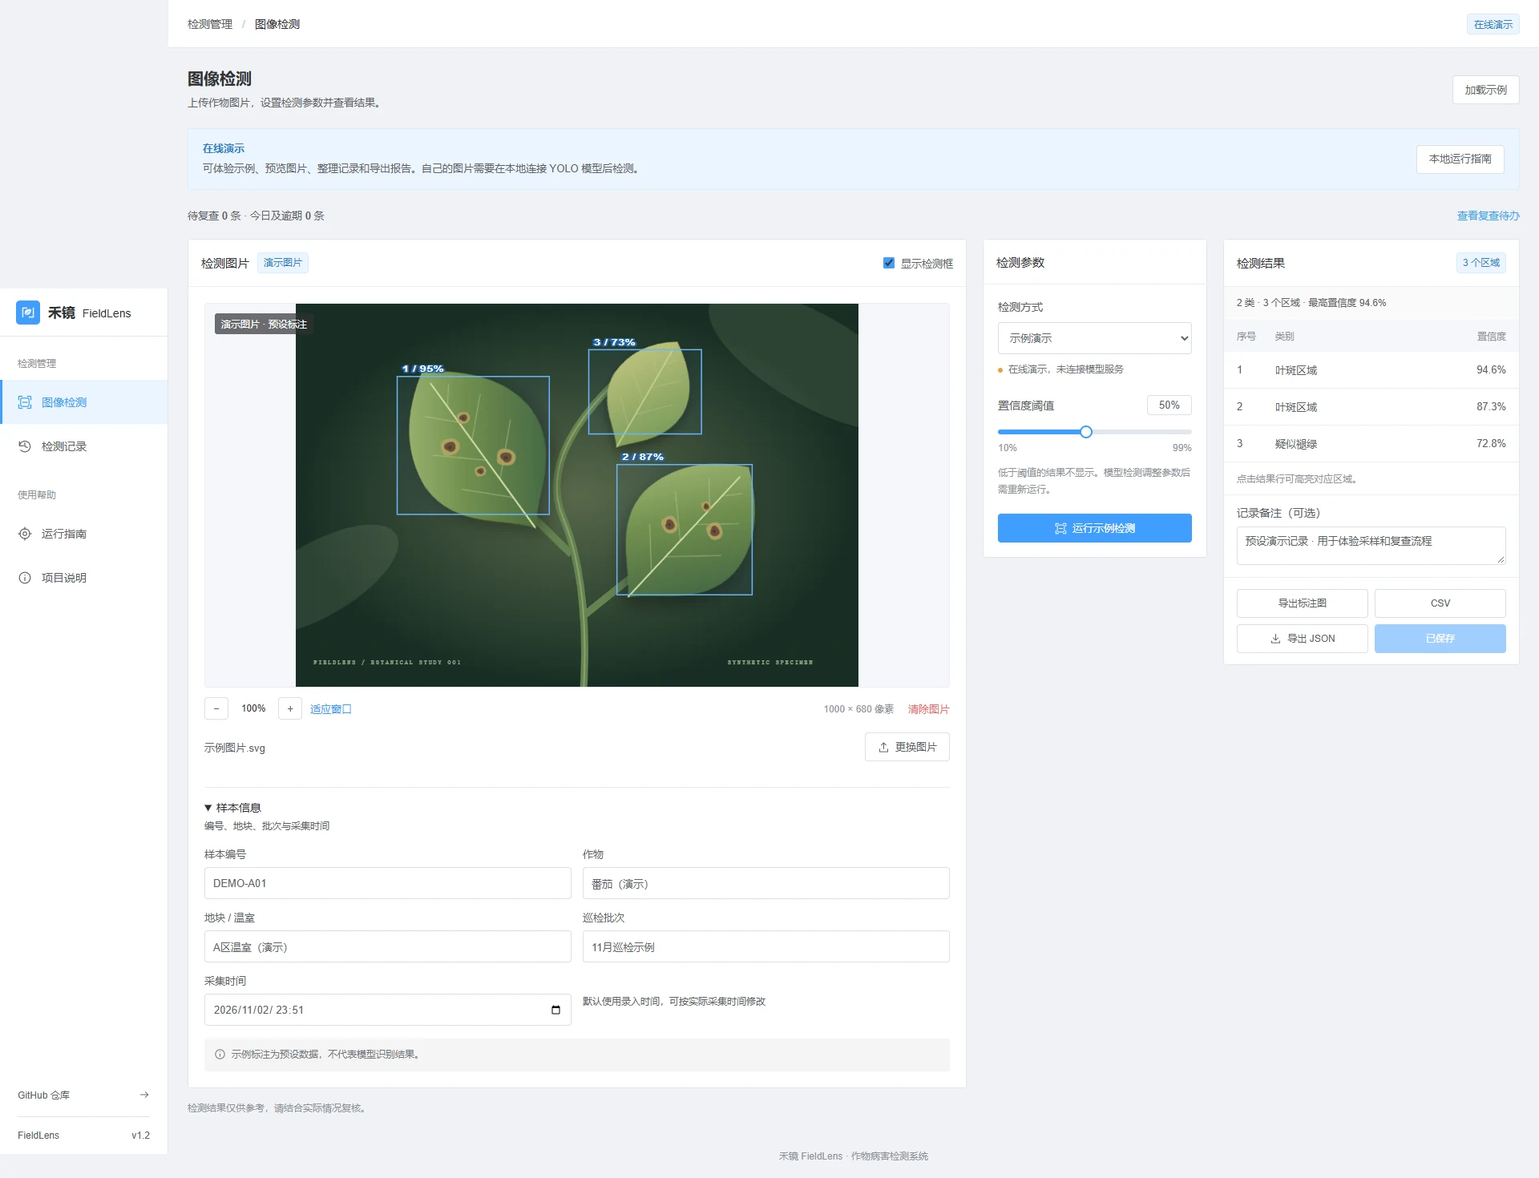
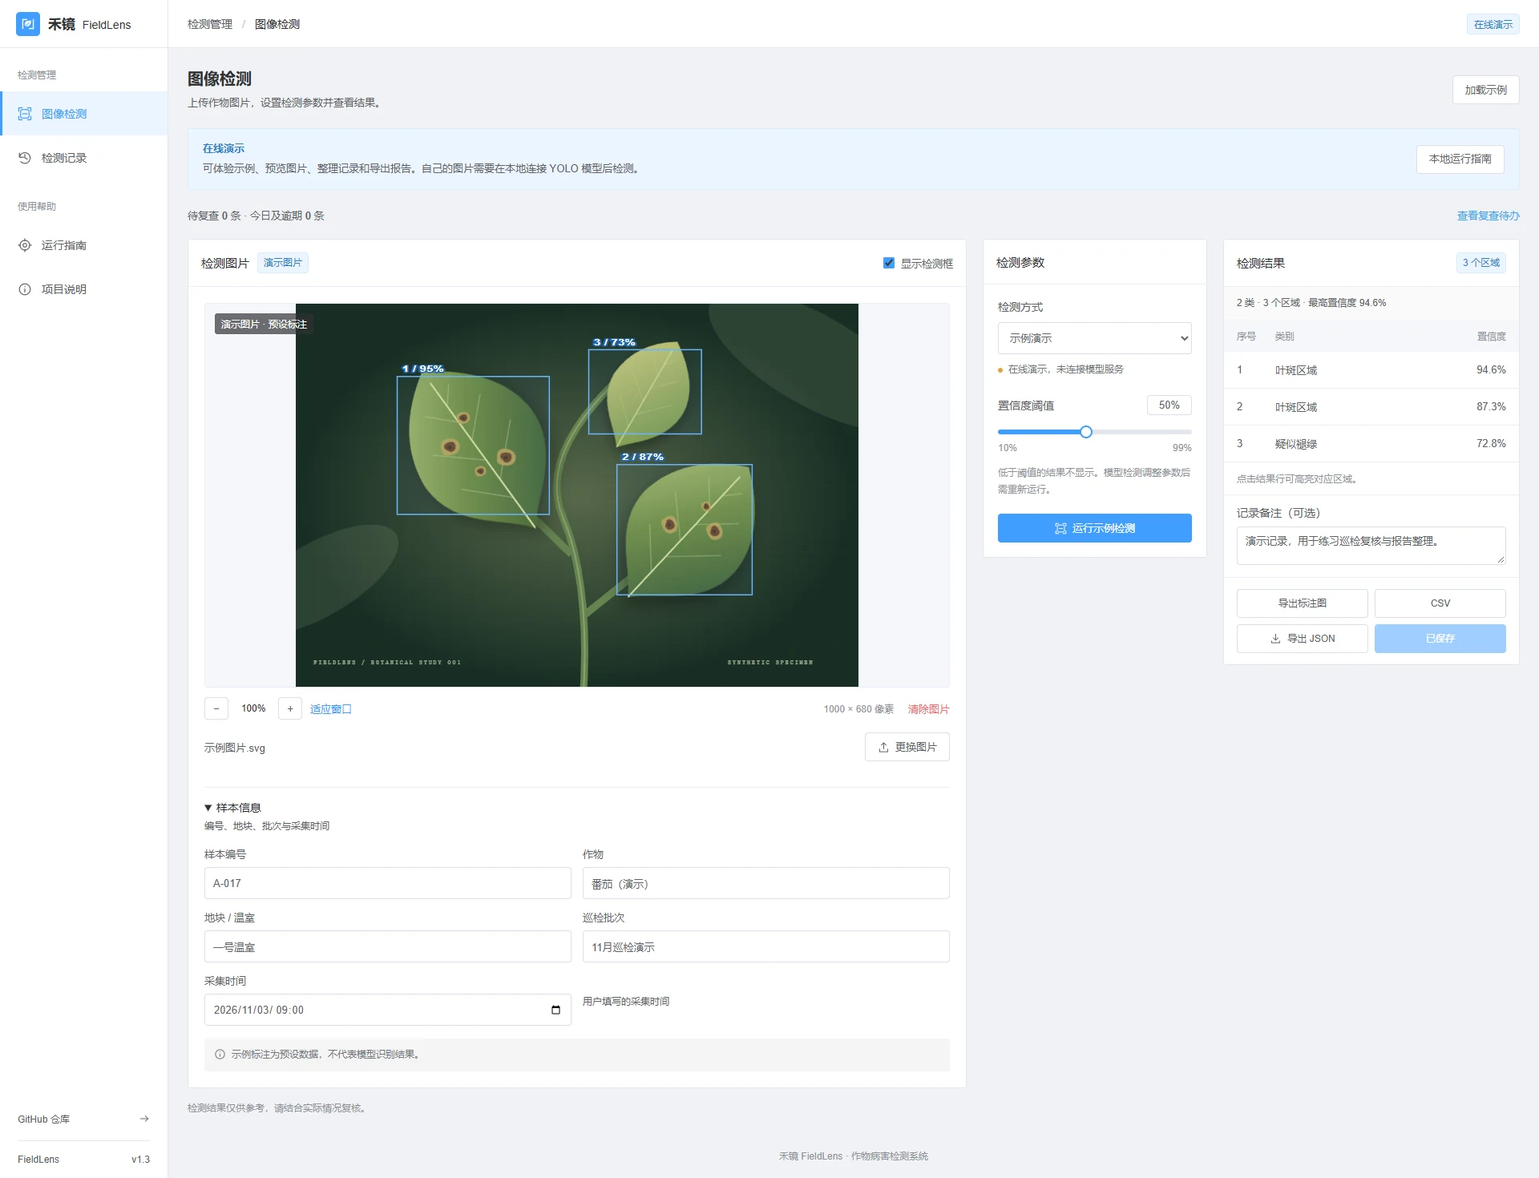
Show FieldLens region reviews reports and compatible AI integration

diff --git a/index.html b/index.html
@@ -27,7 +27,7 @@
   <script src="reader.js?v=20261031-functional-review" defer></script>
   <title>Hang Gu | Research &amp; Engineering</title>
   <link rel="stylesheet" href="demos/operations-cards.css?v=20261028">
-<link rel="stylesheet" href="expert-polish.css?v=20261101-ui-audit"><link rel="stylesheet" href="portfolio-design.css?v=20261101-evidence"><link rel="stylesheet" href="project-cinema.css?v=20261101-ui-audit"><script src="project-cinema.js?v=20261101" defer></script><link rel="stylesheet" href="fieldlens-portfolio.css?v=20261102-practical"><link rel="stylesheet" href="demo-gallery.css?v=20261101-evidence"><script src="demo-gallery.js?v=20261101" defer></script><link rel="stylesheet" href="highlight-design.css?v=20261101"><link rel="stylesheet" href="research/admissions.css?v=20261102">
+<link rel="stylesheet" href="expert-polish.css?v=20261101-ui-audit"><link rel="stylesheet" href="portfolio-design.css?v=20261101-evidence"><link rel="stylesheet" href="project-cinema.css?v=20261101-ui-audit"><script src="project-cinema.js?v=20261101" defer></script><link rel="stylesheet" href="fieldlens-portfolio.css?v=20261103-inspection"><link rel="stylesheet" href="demo-gallery.css?v=20261101-evidence"><script src="demo-gallery.js?v=20261101" defer></script><link rel="stylesheet" href="highlight-design.css?v=20261101"><link rel="stylesheet" href="research/admissions.css?v=20261102">
 <link rel="stylesheet" href="updates.css?v=20261103">
 </head>
 <body class="portfolio-home">
@@ -147,7 +147,7 @@ train.py  →  test.py</code></pre><p class="preview-foot" data-en="Illustrative
             <div class="project-body"><span class="case-index" aria-hidden="true">03</span><div class="project-meta"><span data-en="LOW-CODE ENGINEERING EXAMPLE" data-zh="低代码工程示例">LOW-CODE ENGINEERING EXAMPLE</span><span>JavaScript / JSON</span></div><p class="project-evidence-label" data-en="INTERACTIVE PROTOTYPE · SYNTHETIC DATA" data-zh="交互原型 · 合成数据">INTERACTIVE PROTOTYPE · SYNTHETIC DATA</p><h3 data-en="Schema-driven Form Studio" data-zh="配置驱动表单工作台">Schema-driven Form Studio</h3><dl class="project-case-facts"><dt data-en="Problem" data-zh="问题">Problem</dt><dd data-en="Keep configuration, rendered fields and validation in agreement." data-zh="让配置、渲染字段和校验规则保持一致。">Keep configuration, rendered fields and validation in agreement.</dd><dt data-en="Public implementation" data-zh="公开实现">Public implementation</dt><dd data-en="Six field types, stable keys, JSON import and an independent validation core." data-zh="六类字段、稳定字段键、JSON 导入与独立校验核心。">Six field types, stable keys, JSON import and an independent validation core.</dd><dt data-en="Trade-off" data-zh="取舍">Trade-off</dt><dd data-en="Validate before replacing a schema; a valid import resets preview values." data-zh="先验证再替换配置；合法导入后清空预览值，避免语义错配。">Validate before replacing a schema; a valid import resets preview values.</dd><dt data-en="Evidence" data-zh="验证">Evidence</dt><dd data-en="10 core tests rerun on 1 Nov; inspect invalid-import recovery in the demo." data-zh="11 月 1 日重跑 10 项核心测试；演示可检查错误导入的恢复。">10 core tests rerun on 1 Nov; inspect invalid-import recovery in the demo.</dd></dl><div class="tags"><span>Schema</span><span>Dynamic forms</span><span>Validation</span><span>Vue patterns</span></div><p class="source-note" data-en="AI-assisted learning implementation with synthetic data. Client-side checks do not establish backend authorization or production acceptance." data-zh="AI 辅助实现的合成数据学习示例；客户端检查不代表后端授权或生产验收。">AI-assisted learning implementation with synthetic data. Client-side checks do not establish backend authorization or production acceptance.</p><div class="project-links"><a href="demos/low-code-form/" data-en="Online form studio ↗" data-zh="在线表单工作台 ↗">Online form studio ↗</a><a href="notebook/schema-import-review.html" data-en="Decisions &amp; checks ↗" data-zh="复盘与验证 ↗">Decisions &amp; checks ↗</a><a href="demos/low-code-form/schema.json" data-en="Schema ↗" data-zh="Schema 配置 ↗">Schema ↗</a><a href="https://github.com/GuHang2011/GuHang2011.github.io/blob/main/demos/low-code-form/README.md" data-en="Design notes ↗" data-zh="设计说明 ↗">Design notes ↗</a></div></div>
           </article>
           <article class="project-item" data-category="engineering" id="project-fieldlens" data-case-index="04">
-            <figure class="project-media"><button type="button" data-preview="assets/fieldlens/workspace.webp" aria-label="Preview FieldLens crop inspection" data-en-label="Preview FieldLens crop inspection" data-zh-label="查看禾镜检测工作台截图"><img src="assets/fieldlens/workspace.webp" alt="FieldLens image inspection with zoom, detection regions and report exports" data-en-alt="FieldLens image inspection with zoom, detection regions and report exports" data-zh-alt="禾镜图像检测工作台：图片缩放、检测区域和报告导出" loading="lazy" width="1920" height="1470" decoding="async"></button><figcaption data-en="Browser screenshot · Preset demo annotations" data-zh="浏览器实拍 · 预设演示标注">Browser screenshot · Preset demo annotations</figcaption></figure><div class="project-body"><span class="case-index" aria-hidden="true">04</span><div class="project-meta"><span data-en="COMPUTER VISION / INSPECTION TOOLS" data-zh="计算机视觉 / 检测工具">COMPUTER VISION / INSPECTION TOOLS</span><span>2026.11</span></div><p class="project-evidence-label" data-en="LIVE DEMO · OPTIONAL LOCAL YOLO" data-zh="在线演示 · 可接入本地 YOLO">LIVE DEMO · OPTIONAL LOCAL YOLO</p><h3 data-en="FieldLens · Crop Image Inspection" data-zh="禾镜 FieldLens · 作物图像检测">FieldLens · Crop Image Inspection</h3><p data-en="An Element-style crop inspection workspace with sample batches, plot filters, follow-up tasks and PNG/CSV/JSON exports." data-zh="Element 风格的检测工作台：整理样本批次、按地块筛选、安排复查待办，并导出 PNG／CSV／JSON。">An Element-style crop inspection workspace with sample batches, plot filters, follow-up tasks and PNG/CSV/JSON exports.</p><div class="tags"><span>JavaScript</span><span>YOLO</span><span>Flask</span><span>Canvas</span><span>Playwright</span></div><p data-en="Version 1.2 adds complete backup and restore, explicit conflict selection, and capacity protection that preserves existing records." data-zh="v1.2 增加完整备份恢复、导入冲突选择与容量保护；满额时停止新增，保留已有记录。">Version 1.2 adds complete backup and restore, explicit conflict selection, and capacity protection that preserves existing records.</p><p class="source-note" data-en="The public page uses synthetic images and preset annotations. Real inference requires a locally supplied authorized model; crop-model accuracy has not been measured." data-zh="公开页面使用合成图片与预设标注；真实推理需要本地配置授权模型，尚未测量作物模型准确率。">The public page uses synthetic images and preset annotations. Real inference requires a locally supplied authorized model; crop-model accuracy has not been measured.</p><div class="project-links"><a href="/fieldlens/" data-en="Open workspace ↗" data-zh="打开检测工作台 ↗">Open workspace ↗</a><a href="cases/fieldlens/" data-en="User review &amp; fixes ↗" data-zh="用户问题与修复 ↗">User review &amp; fixes ↗</a><a href="https://github.com/GuHang2011/fieldlens" data-en="Source &amp; setup ↗" data-zh="源码与部署 ↗">Source &amp; setup ↗</a></div></div></article>
+            <figure class="project-media"><button type="button" data-preview="assets/fieldlens/workspace.webp" aria-label="Preview FieldLens crop inspection" data-en-label="Preview FieldLens crop inspection" data-zh-label="查看禾镜检测工作台截图"><img src="assets/fieldlens/workspace.webp" alt="FieldLens image inspection with zoom, detection regions and report exports" data-en-alt="FieldLens image inspection with zoom, detection regions and report exports" data-zh-alt="禾镜图像检测工作台：图片缩放、检测区域和报告导出" loading="lazy" width="1920" height="1470" decoding="async"></button><figcaption data-en="Browser screenshot · Preset demo annotations" data-zh="浏览器实拍 · 预设演示标注">Browser screenshot · Preset demo annotations</figcaption></figure><div class="project-body"><span class="case-index" aria-hidden="true">04</span><div class="project-meta"><span data-en="COMPUTER VISION / INSPECTION TOOLS" data-zh="计算机视觉 / 检测工具">COMPUTER VISION / INSPECTION TOOLS</span><span>2026.11</span></div><p class="project-evidence-label" data-en="LIVE DEMO · OPTIONAL LOCAL YOLO" data-zh="在线演示 · 可接入本地 YOLO">LIVE DEMO · OPTIONAL LOCAL YOLO</p><h3 data-en="FieldLens · Crop Image Inspection" data-zh="禾镜 FieldLens · 作物图像检测">FieldLens · Crop Image Inspection</h3><p data-en="An Element-style crop inspection workspace with region reviews, record comparison, printable reports and optional AI assistance." data-zh="Element 风格的检测工作台：逐区域复核、两次记录对比、巡检报告打印，并可接入通用 AI 平台。">An Element-style crop inspection workspace with region reviews, record comparison, printable reports and optional AI assistance.</p><div class="tags"><span>JavaScript</span><span>YOLO</span><span>Flask</span><span>Canvas</span><span>Playwright</span></div><p data-en="Version 1.3 keeps local YOLO and backups, adding manual region decisions, comparison warnings and a server-side Chat Completions adapter." data-zh="v1.3 保留本地 YOLO 与备份恢复，增加区域意见、对比条件提示和服务端通用 AI 接口。">Version 1.3 keeps local YOLO and backups, adding manual region decisions, comparison warnings and a server-side Chat Completions adapter.</p><p class="source-note" data-en="The public page uses synthetic images and preset annotations. Real inference requires a locally supplied authorized model; crop-model accuracy has not been measured." data-zh="公开页面使用合成图片与预设标注；真实推理需要本地配置授权模型，尚未测量作物模型准确率。">The public page uses synthetic images and preset annotations. Real inference requires a locally supplied authorized model; crop-model accuracy has not been measured.</p><div class="project-links"><a href="/fieldlens/" data-en="Open workspace ↗" data-zh="打开检测工作台 ↗">Open workspace ↗</a><a href="cases/fieldlens/" data-en="User review &amp; fixes ↗" data-zh="用户问题与修复 ↗">User review &amp; fixes ↗</a><a href="https://github.com/GuHang2011/fieldlens" data-en="Source &amp; setup ↗" data-zh="源码与部署 ↗">Source &amp; setup ↗</a></div></div></article>
 
           <article class="project-item" data-category="engineering" id="project-ai-office">
             <figure class="project-media"><a href="https://github.com/GuHang2011/engineering-notes/blob/main/notes/personal-ai-keys.md"><img src="https://raw.githubusercontent.com/GuHang2011/engineering-notes/main/screenshots/ai-settings-desktop.png" alt="AI workspace settings with hidden personal key, endpoint controls and connection feedback" data-en-alt="AI workspace settings with hidden personal key, endpoint controls and connection feedback" data-zh-alt="AI 工作区设置：隐藏的个人密钥、服务地址配置与连接反馈" loading="lazy"></a><figcaption data-en="Local UI test fixture · Synthetic connection response" data-zh="本地界面测试夹具 · 模拟连接响应">Local UI test fixture · Synthetic connection response</figcaption></figure>

diff --git a/cases/fieldlens/index.html b/cases/fieldlens/index.html
@@ -4,7 +4,7 @@
 *{box-sizing:border-box}body{margin:0;color:#243447;background:#f6f8fb;font-family:Arial,"Microsoft YaHei",sans-serif;line-height:1.8}a{color:#2864a1;text-decoration:none}a:hover{text-decoration:underline}a:focus-visible{outline:3px solid #409eff;outline-offset:4px}header,main,footer{max-width:1080px;margin:auto;padding:24px}header{display:flex;justify-content:space-between;gap:16px;font-size:14px;border-bottom:1px solid #dfe5ec}h1{font-size:32px;line-height:1.4;margin:16px 0}h2{font-size:21px;margin:0 0 14px}p{color:#586778}.lead{font-size:16px;max-width:820px}.actions{display:flex;gap:12px;flex-wrap:wrap;margin:24px 0}.actions a{border:1px solid #ccd8e5;padding:9px 17px;border-radius:4px;background:#fff}.actions .primary{background:#2864a1;color:#fff;border-color:#2864a1}.notice{border-left:3px solid #7da1c8;padding:14px 18px;background:#ecf2f8;color:#586778;font-size:14px}section{margin-top:30px;padding:24px;background:#fff;border:1px solid #e1e7ed;border-radius:6px}.screenshots img{display:block;width:100%;height:auto;border:1px solid #dfe5ec;border-radius:4px}.screenshots figcaption{font-size:13px;color:#6a7a8c;margin:10px 0 0}.screenshots figure{margin:0}.table-wrap{overflow:auto}table{border-collapse:collapse;width:100%;font-size:14px;text-align:left;min-width:600px}th,td{padding:14px;border-bottom:1px solid #e6ebf1;vertical-align:top}th{background:#f6f8fb}td:first-child{width:34%}.feature-list{padding-left:20px;color:#586778}.feature-list li{margin:10px 0}.english{border-top:1px solid #e1e7ed;margin-top:30px;padding-top:20px;font-size:14px}footer{font-size:13px;color:#718092}code{background:#f0f3f7;padding:2px 6px;border-radius:3px}@media(max-width:650px){header,main,footer{padding:18px}h1{font-size:26px}section{padding:18px}.actions a{font-size:13px}.lead{font-size:14px}}
 </style></head>
 <body><header><a href="../../?v=20261030-portfolio-design#project-fieldlens">← 返回个人展示站</a><span>工程项目 / 计算机视觉</span></header><main>
-<h1>禾镜 FieldLens</h1><p class="lead">一个用于作物图片检测与结果复核的工作台。这次改进围绕实际操作：怎样开始、怎样看清结果、怎样导出，以及怎样找回一条记录。</p>
+<h1>禾镜 FieldLens</h1><p class="lead">一个用于作物图片检测与结果复核的工作台。支持逐区域记录人工意见、两次记录对照、巡检报告打印，以及可选的通用 AI 平台辅助；保留本地 YOLO 检测、样本批次和备份恢复。</p>
 <div class="actions"><a class="primary" href="/fieldlens/">打开检测工作台 ↗</a><a href="https://github.com/GuHang2011/fieldlens">GitHub 源码 ↗</a><a href="/fieldlens/#guide">本地运行指南 ↗</a></div>
 <p class="notice">公开页面是交互演示，示例图片和检测框均为预设数据。真实 YOLO 推理需要在本地配置有授权的目标检测权重；本项目没有发布模型精度或病害确诊结论。</p>
 <section class="screenshots"><h2>检测工作台</h2><figure><img src="../../assets/fieldlens/workspace.webp" width="1920" height="1470" alt="禾镜检测工作台，显示图片缩放、预设检测框与结果导出"><figcaption>浏览器实拍。示例仅用于体验检测框、阈值和导出流程。</figcaption></figure></section>
@@ -19,6 +19,6 @@
 <tr><td>选错图片或检测等太久，怎么退出？</td><td>可清除当前图片、取消等待。防止旧图片读取完成后覆盖新选择；取消后不生成成功记录。</td></tr>
 </tbody></table></div></section>
 <section class="screenshots"><h2>记录检索与人工复核</h2><figure><img src="../../assets/fieldlens/history.webp" width="1440" height="1050" loading="lazy" alt="检测记录中的搜索、来源筛选、复核状态、备注和导出入口"><figcaption>演示记录，用于展示检索与复核流程。复核状态只表示人工查看，不代表病害确诊。</figcaption></figure></section>
-<section><h2>v1.2：把一次检测接到后续巡检</h2><ul class="feature-list"><li><strong>样本与批次：</strong>填写样本编号、作物、地块、采集时间与巡检批次，按日期和地块组合查找。</li><li><strong>复查待办：</strong>安排补拍、结果存疑等任务，填写计划日期和处理说明，关联后续检测；已查看与已完成分别记录。</li><li><strong>完整备份：</strong>导出全部记录并恢复，导入前检查重复和冲突；默认保留旧记录，只有明确选择才覆盖。</li><li><strong>容量保护：</strong>达到 30 条后停止新增，保留当前结果供导出，不自动删除历史。</li></ul><p>提醒仅在打开站点时显示，不提供浏览器关闭后的推送。备份不含原图或模型权重。</p><a href="https://github.com/GuHang2011/fieldlens/blob/main/docs/PRACTICAL_RELEASE.md">查看使用步骤与验证范围 ↗</a></section><section><h2>实现与验证</h2><ul class="feature-list"><li>前端：原生 ES Modules、Vite、Canvas；对照 Element 官网色彩、导航、表格和表单规范，采用浅色分组侧栏、40px 表单、固定操作列；支持宽屏三列布局。</li><li>本地服务：Flask、Pillow、可选 Ultralytics YOLO。上传图片在内存中处理，不随仓库分发模型权重。</li><li>记录：浏览器本地存储，最多 30 条，满额停止新增；完整 JSON 备份可手动跨设备恢复，不包含原图。</li><li>验证：18 项前端逻辑测试、6 项后端接口测试和浏览器流程检查；覆盖 360–2560px 布局、导出、筛选、复核、删除与失败状态。</li><li>实际模型精度、不同设备推理速度和田间效果尚未评估。</li></ul><a href="https://github.com/GuHang2011/fieldlens/blob/main/docs/USER_REVIEW.md">查看完整问题清单与验证记录 ↗</a></section>
-<div class="english" lang="en"><h2>FieldLens: a user-centered inspection workflow</h2><p>Review crop images, zoom into detection regions, export annotated PNG/CSV/JSON reports, and manage sample batches, plots and follow-up tasks. Complete JSON backups support previewed imports with explicit conflict choices; full storage never evicts older records. The public demo uses synthetic artwork and preset annotations. Real YOLO inference requires an authorized local model; no crop-model accuracy claims are made.</p></div>
-</main><footer>Hang Gu · FieldLens v1.2 · <a href="../../#work">返回工程项目</a></footer></body></html>
+<section><h2>v1.2：把一次检测接到后续巡检</h2><ul class="feature-list"><li><strong>样本与批次：</strong>填写样本编号、作物、地块、采集时间与巡检批次，按日期和地块组合查找。</li><li><strong>复查待办：</strong>安排补拍、结果存疑等任务，填写计划日期和处理说明，关联后续检测；已查看与已完成分别记录。</li><li><strong>完整备份：</strong>导出全部记录并恢复，导入前检查重复和冲突；默认保留旧记录，只有明确选择才覆盖。</li><li><strong>容量保护：</strong>达到 30 条后停止新增，保留当前结果供导出，不自动删除历史。</li></ul><p>提醒仅在打开站点时显示，不提供浏览器关闭后的推送。备份不含原图或模型权重。</p><a href="https://github.com/GuHang2011/fieldlens/blob/main/docs/PRACTICAL_RELEASE.md">查看使用步骤与验证范围 ↗</a></section><section><h2>v1.3：复核意见可以落到具体区域</h2><ul class="feature-list"><li><strong>逐区域复核：</strong>标记待确认、保留或疑似误检，填写原因，原始检测框与置信度不变。</li><li><strong>两次记录对比：</strong>查看样本信息、位置示意与数量；模型、阈值、来源不一致时给出提示，不按框数判断病情。</li><li><strong>巡检报告：</strong>按当前筛选结果生成报告，支持学院或课程名称、演示记录分组和浏览器打印为 PDF。</li><li><strong>AI 平台接口：</strong>保留 YOLO，增加服务端兼容 Chat Completions 的文字接口，可配置 DeepSeek 等；发送前预览，回答不会自动修改记录。</li></ul><p>AI 密钥仅放在服务端。公开静态页面保留接入入口与文档，不调用真实平台；本次仅用模拟响应验证接口，未使用付费密钥评估效果。记录对比不包含已存原图。</p><a href="https://github.com/GuHang2011/fieldlens/blob/main/docs/INSPECTION_RELEASE.md">查看功能说明与截图 ↗</a> · <a href="https://github.com/GuHang2011/fieldlens/blob/main/docs/AI_PLATFORM.md">AI 平台配置 ↗</a></section><section><h2>实现与验证</h2><ul class="feature-list"><li>前端：原生 ES Modules、Vite、Canvas；对照 Element 官网色彩、导航、表格和表单规范，采用浅色分组侧栏、40px 表单、固定操作列；支持宽屏三列布局。</li><li>本地服务：Flask、Pillow、可选 Ultralytics YOLO。上传图片在内存中处理，不随仓库分发模型权重。</li><li>记录：浏览器本地存储，最多 30 条，满额停止新增；完整 JSON 备份可手动跨设备恢复，不包含原图。</li><li>验证：25 项前端逻辑测试、14 项后端接口测试和浏览器流程检查；覆盖 360–2560px 布局、导出、筛选、复核、删除与失败状态。</li><li>实际模型精度、不同设备推理速度和田间效果尚未评估。</li></ul><a href="https://github.com/GuHang2011/fieldlens/blob/main/docs/USER_REVIEW.md">查看完整问题清单与验证记录 ↗</a></section>
+<div class="english" lang="en"><h2>FieldLens: a user-centered inspection workflow</h2><p>Review crop images, zoom into detection regions, export annotated PNG/CSV/JSON reports, and manage sample batches, plots and follow-up tasks. Complete JSON backups support previewed imports with explicit conflict choices; full storage never evicts older records. Version 1.3 adds region-level manual reviews, record comparison, printable reports and a server-side compatible AI adapter. The public demo uses synthetic artwork and preset annotations; it does not call an AI provider. Real YOLO inference requires an authorized local model; no crop-model accuracy claims are made.</p></div>
+</main><footer>Hang Gu · FieldLens v1.3 · <a href="../../#work">返回工程项目</a></footer></body></html>
